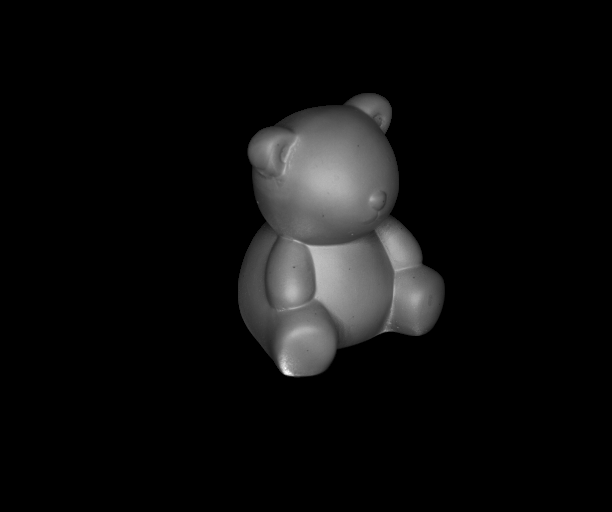
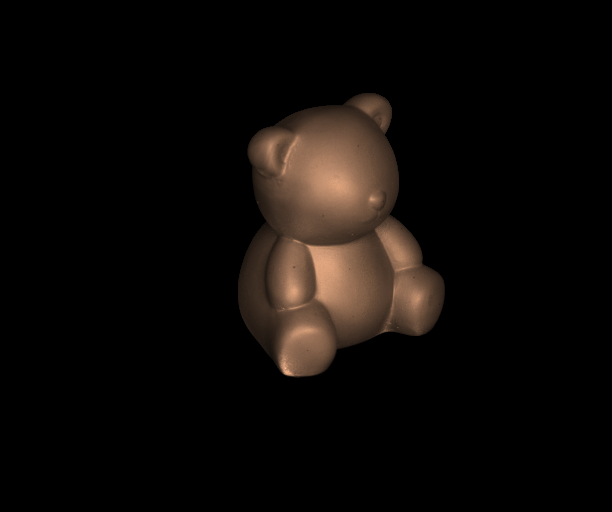
fix: changed the albedo picture and re-rendered piture into 3 channels as required.

Changed region(s): [[0.3725, 0.1875, 0.7451, 0.75]]

diff --git a/Homework 1/matlab/myPMS.m b/Homework 1/matlab/myPMS.m
@@ -4,50 +4,55 @@ function [N, albedo, re_rendered_img] = L2_PMS(data, m, shadow_removal_percentag
     [height, width, ~] = size(data.imgs{1});
     
     N = zeros(height, width, 3);      % Surface normals
-    albedo = zeros(height, width);   % Albedo map
-    re_rendered_img = zeros(height, width); % Re-rendered image
-    I = zeros(num_images, length(m)); % Image intensities for valid pixels
+    albedo = zeros(height, width, 3);   % Albedo map
+    re_rendered_img = zeros(height, width, 3); % Re-rendered image
+    I = zeros(num_images, length(m), 3); % Image intensities for valid pixels
     
     % Extract pixel intensities for each image
-    for i = 1:num_images
-        img = double(data.imgs{i});
-        img = img(m);
-        I(i, :) = img;
-    end
-    
-    % Remove shadows and highlights, compute normals and albedo
-    for i = 1:length(m)
-        I_col = I(:, i);
-        
-        % Sort intensities and remove shadows/highlights
-        [sorted_I, idx] = sort(I_col);
-        num_to_remove = round(length(sorted_I) * shadow_removal_percentage / 100);
-        valid_idx = idx(num_to_remove+1:end-num_to_remove);
-        
-        % Filter light source directions and intensities
-        s_filtered = data.s(valid_idx, :);
-        I_col_filtered = sorted_I(num_to_remove+1:end-num_to_remove);
-        
-        % Solve for normal and albedo
-        A = s_filtered \ I_col_filtered;
-        albedo_val = norm(A);
-
-        norm_A = A / albedo_val;
-        [row, col] = ind2sub([height, width], m(i));
-        N(row, col, :) = norm_A';
-        albedo(row, col) = albedo_val;
-    end
-    
-    % Re-render the image using recovered normals and albedo
-    viewing_direction = [0, 0, 1];
-    for i = 1:height
-        for j = 1:width
-            normal = squeeze(N(i, j, :));
-            if norm(normal) > 0
-                re_rendered_img(i, j) = max(0, dot(normal, viewing_direction)) * albedo(i, j);
-            end
+    for c = 1:3
+        for i = 1:num_images
+            img = double(data.imgs{i});
+            img = img(m);
+            img = img / data.L(i, c);
+            I(i, :, c) = img;
         end
     end
     
+    for c = 1:3
+    % Remove shadows and highlights, compute normals and albedo
+        for i = 1:length(m)
+            I_col = I(:, i, c);
+            
+            % Sort intensities and remove shadows/highlights
+            [sorted_I, idx] = sort(I_col);
+            num_to_remove = round(length(sorted_I) * shadow_removal_percentage / 100);
+            valid_idx = idx(num_to_remove+1:end-num_to_remove);
+            
+            % Filter light source directions and intensities
+            s_filtered = data.s(valid_idx, :);
+            I_col_filtered = sorted_I(num_to_remove+1:end-num_to_remove);
+            
+            % Solve for normal and albedo
+            A = s_filtered \ I_col_filtered;
+            albedo_val = norm(A);
+
+            norm_A = A / albedo_val;
+            [row, col] = ind2sub([height, width], m(i));
+            N(row, col, :) = norm_A';
+            albedo(row, col, c) = albedo_val;
+        end
+    end
+    % Re-render the image using recovered normals and albedo
+    viewing_direction = [0, 0, 1];
+    for c = 1:3
+        for i = 1:height
+            for j = 1:width
+                normal = squeeze(N(i, j, :));
+                if norm(normal) > 0
+                    re_rendered_img(i, j, c) = max(0, dot(normal, viewing_direction)) * albedo(i, j, c);
+                end
+            end
+        end
+    end
     end
     
